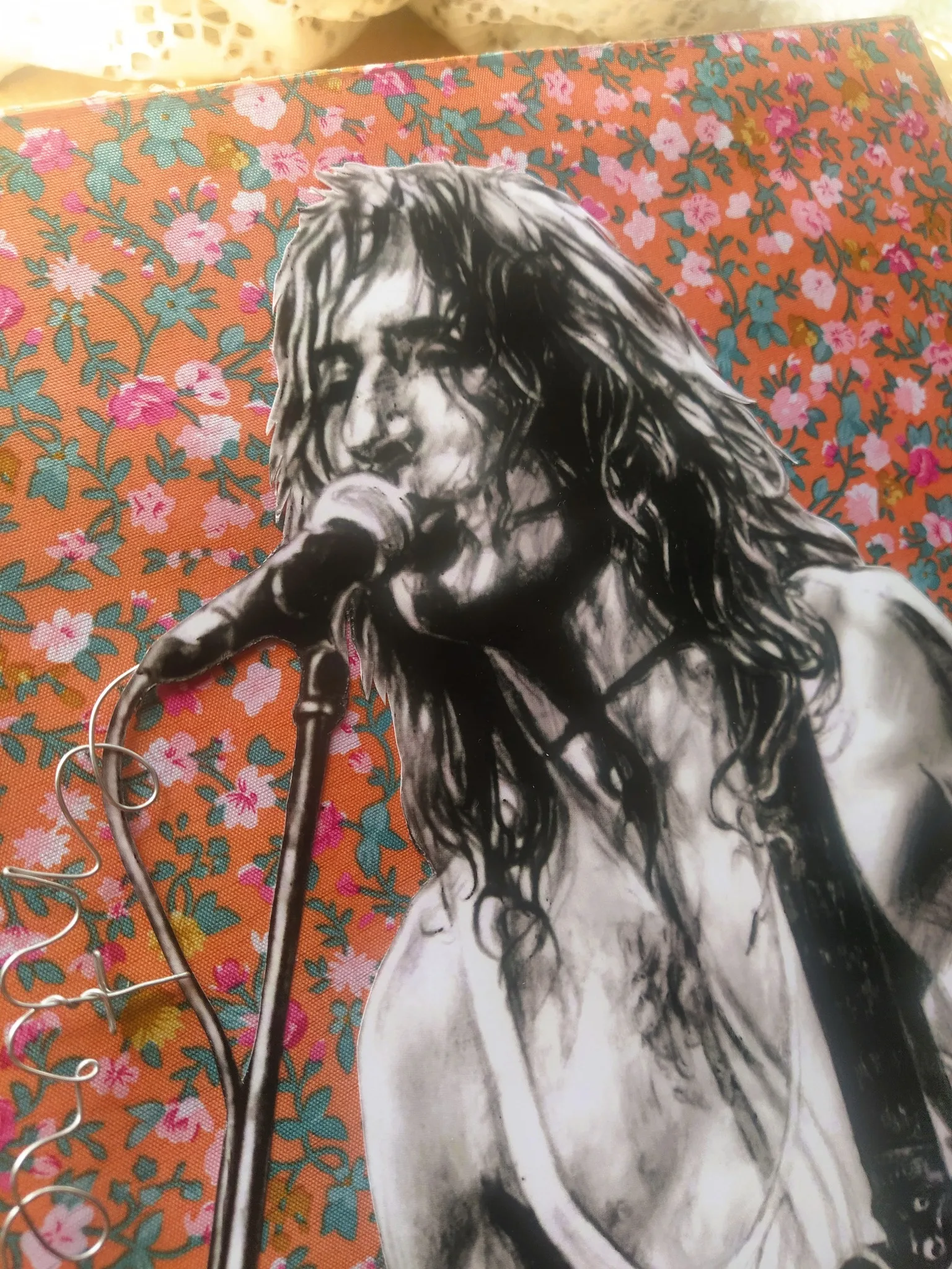
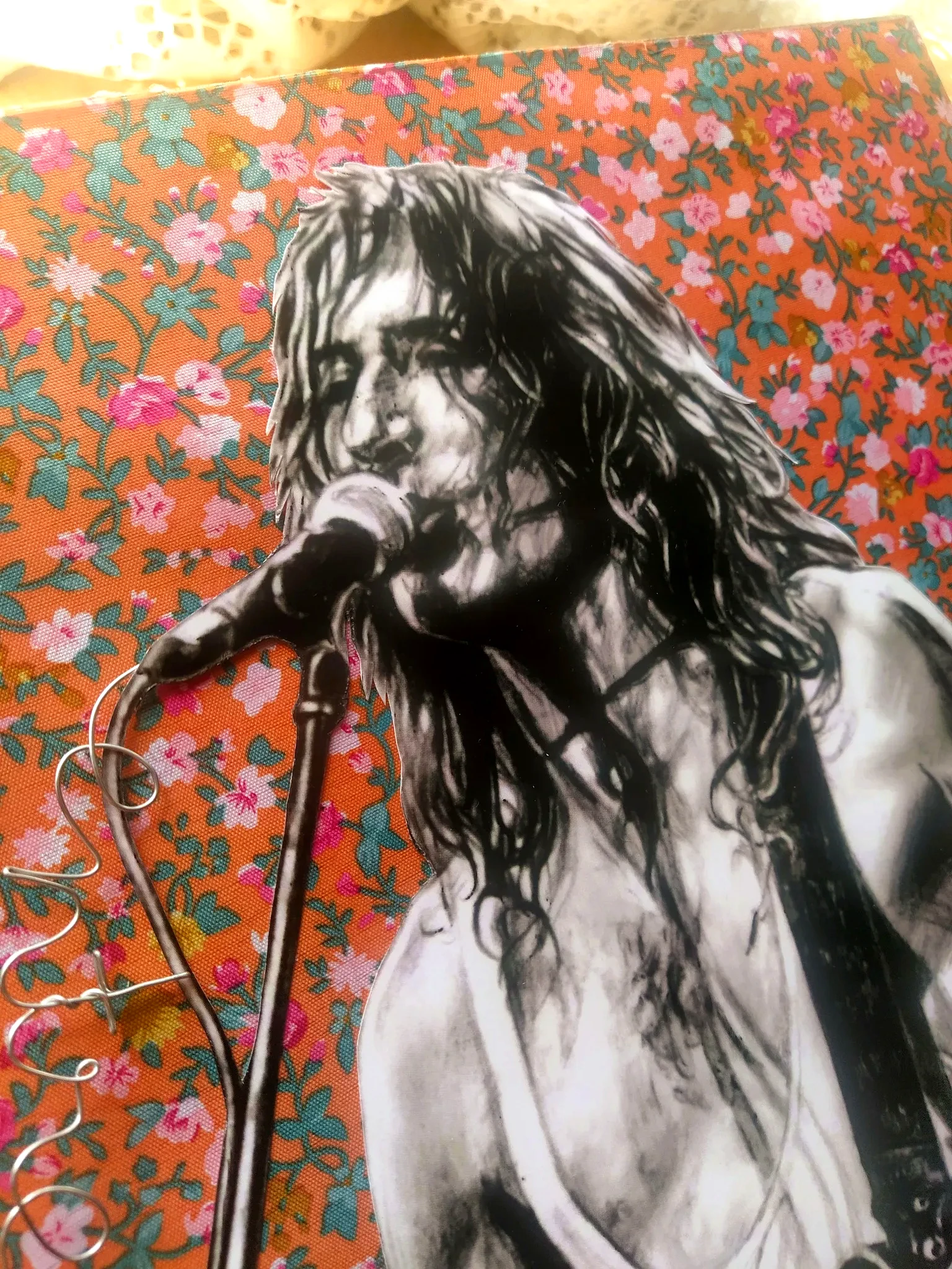
feat(blog): implement Headless WP architecture with ISR and Open Graph sync

diff --git a/src/app/blog/[slug]/page.tsx b/src/app/blog/[slug]/page.tsx
@@ -1,4 +1,4 @@
-import { BLOG_POSTS } from '@/lib/blogData';
+import { getBlogPosts } from '@/lib/blogData';
 import { notFound } from 'next/navigation';
 import Link from 'next/link';
 import { Metadata } from 'next';
@@ -6,14 +6,16 @@ import Footer from '@/components/Footer';
 import ReadingProgress from '@/components/ReadingProgress';
 
 export async function generateStaticParams() {
-  return BLOG_POSTS.map((post) => ({
+  const posts = await getBlogPosts();
+  return posts.map((post) => ({
     slug: post.slug,
   }));
 }
 
 export async function generateMetadata({ params }: { params: Promise<{ slug: string }> }): Promise<Metadata> {
   const { slug } = await params;
-  const post = BLOG_POSTS.find((p) => p.slug === slug);
+  const posts = await getBlogPosts();
+  const post = posts.find((p) => p.slug === slug);
 
   if (!post) {
     return { title: 'Post no encontrado' };
@@ -56,15 +58,16 @@ export async function generateMetadata({ params }: { params: Promise<{ slug: str
 
 export default async function BlogPostPage({ params }: { params: Promise<{ slug: string }> }) {
   const { slug } = await params;
-  const postIndex = BLOG_POSTS.findIndex((p) => p.slug === slug);
-  const post = BLOG_POSTS[postIndex];
+  const posts = await getBlogPosts();
+  const postIndex = posts.findIndex((p) => p.slug === slug);
+  const post = posts[postIndex];
 
   if (!post) {
     notFound();
   }
 
-  const prevPost = postIndex > 0 ? BLOG_POSTS[postIndex - 1] : null;
-  const nextPost = postIndex < BLOG_POSTS.length - 1 ? BLOG_POSTS[postIndex + 1] : null;
+  const prevPost = postIndex > 0 ? posts[postIndex - 1] : null;
+  const nextPost = postIndex < posts.length - 1 ? posts[postIndex + 1] : null;
 
   return (
     <div className="min-h-screen bg-[#050505] text-[#EAEAEA] font-sans selection:bg-[#2B3BE5] selection:text-white overflow-hidden relative">
@@ -128,9 +131,10 @@ export default async function BlogPostPage({ params }: { params: Promise<{ slug:
             <p className="text-xl md:text-2xl text-white/90 font-serif leading-relaxed mb-12 pl-6 border-l-2 border-[#2B3BE5]">
               {post.excerpt}
             </p>
-            <div className="space-y-8 text-lg font-sans text-white/60">
-              <p>{post.content}</p>
-            </div>
+            <div 
+              className="space-y-8 text-lg font-sans text-white/60 wp-content-renderer"
+              dangerouslySetInnerHTML={{ __html: post.content }}
+            />
           </div>
         </article>
 

diff --git a/optimize-assets.js b/optimize-assets.js
@@ -1,0 +1,37 @@
+const fs = require('fs');
+const path = require('path');
+const sharp = require('sharp');
+
+const dir = path.join(__dirname, 'public/assets');
+
+async function optimize() {
+  const files = fs.readdirSync(dir).filter(f => f.endsWith('.webp'));
+  let totalSaved = 0;
+  
+  for (const file of files) {
+    const filePath = path.join(dir, file);
+    const tmpPath = filePath + '.tmp.webp';
+    const originalSize = fs.statSync(filePath).size;
+    
+    // Only process files > 100KB to avoid degrading small icons
+    if (originalSize > 100 * 1024) {
+      await sharp(filePath)
+        .webp({ quality: 75, effort: 6, smartSubsample: true })
+        .toFile(tmpPath);
+        
+      const newSize = fs.statSync(tmpPath).size;
+      
+      if (newSize < originalSize) {
+        fs.renameSync(tmpPath, filePath);
+        totalSaved += (originalSize - newSize);
+        console.log(`Optimized ${file}: ${(originalSize/1024).toFixed(1)}KB -> ${(newSize/1024).toFixed(1)}KB`);
+      } else {
+        fs.unlinkSync(tmpPath);
+        console.log(`Skipped ${file}: optimization would not reduce size`);
+      }
+    }
+  }
+  console.log(`\nTotal saved: ${(totalSaved / 1024 / 1024).toFixed(2)} MB`);
+}
+
+optimize().catch(console.error);

diff --git a/src/app/blog/BlogClient.tsx b/src/app/blog/BlogClient.tsx
@@ -1,15 +1,13 @@
 'use client';
 
-import { useState, useEffect, useRef } from 'react';
-import Link from 'next/link';
-import useLenis from '@/hooks/useLenis';
 import HeroFluid from '@/components/HeroFluid';
 import ScrollReveal from '@/components/ScrollReveal';
 import Footer from '@/components/Footer';
+import { BlogPost } from '@/lib/blogData';
 
-import { BLOG_POSTS } from '@/lib/blogData';
+interface BlogClientProps {
 
-export default function BlogPage() {
+export default function BlogClient({ initialPosts }: BlogClientProps) {
   const [selectedCategory, setSelectedCategory] = useState<string>('Todos');
   const [mousePos, setMousePos] = useState({ x: 0, y: 0 });
 
@@ -27,8 +25,8 @@ export default function BlogPage() {
   const categories = ['Todos', 'Exposiciones', 'Talleres', 'Encuentros'];
 
   const filteredPosts = selectedCategory === 'Todos'
-    ? BLOG_POSTS
-    : BLOG_POSTS.filter(post => post.category === selectedCategory);
+    ? initialPosts
+    : initialPosts.filter(post => post.category === selectedCategory);
 
   return (
     <div className="min-h-screen bg-[#050505] text-[#EAEAEA] font-sans selection:bg-[#2B3BE5] selection:text-white overflow-hidden relative">

diff --git a/src/components/AlcoveSystem.tsx b/src/components/AlcoveSystem.tsx
@@ -36,7 +36,7 @@ const alcoveData: Record<AlcoveId, { universeNum: string; title: string; descrip
     description: 'Material recuperado directamente de derribos de tejados tradicionales en Bilbao. Sometidas a cortes geográficos, sellado con resina epoxi de brillo espejo y rematadas con bordes rotos, las pizarras representan el concepto de refugio, hogar y dureza ancestral.',
     material: 'Pizarra Vasco-Lítica',
     friction: 'Corte Rústico Manual',
-    image: '601340023_1552126202933462_7815927344957967258_n.webp',
+    image: 'espejo-alma-piensa.webp',
   },
   poliester: {
     universeNum: 'III',
@@ -52,7 +52,7 @@ const alcoveData: Record<AlcoveId, { universeNum: string; title: string; descrip
     description: 'Nacido por un error en pandemia mezclando cola blanca barata y acrílico. La costra del lienzo se resquebraja al secarse. En lugar de descartarlo, la artista raspa la herida y la rellena con barnices de oro, transformando la falla física en una veta de luz.',
     material: 'Cola, Acrílico & Oro',
     friction: 'Fractura Termodinámica',
-    image: 'lagrimas-de-oro-DikHc-Tk.webp',
+    image: 'cantinflas-kintsugi.webp',
   },
   mica: {
     universeNum: 'V',

diff --git a/src/app/globals.css b/src/app/globals.css
@@ -32,6 +32,51 @@ body {
   background-image: radial-gradient(circle at 50% 0%, rgba(43, 59, 229, 0.05) 0%, transparent 70%);
 }
 
+@layer utilities {
+  .chromatic-text {
+    background-image: linear-gradient(
+      90deg,
+      rgba(255, 0, 0, 0.8) 0%,
+      rgba(0, 255, 0, 0.8) 50%,
+      rgba(0, 0, 255, 0.8) 100%
+    );
+    background-clip: text;
+    color: transparent;
+    mix-blend-mode: screen;
+    animation: chromatic 8s linear infinite;
+  }
+
+  .wp-content-renderer img {
+    max-width: 100%;
+    height: auto;
+    border-radius: 4px;
+    margin: 2rem 0;
+    filter: grayscale(100%);
+    transition: filter 0.5s ease;
+  }
+  
+  .wp-content-renderer img:hover {
+    filter: grayscale(0%);
+  }
+
+  .wp-content-renderer a {
+    color: #2B3BE5;
+    text-decoration: underline;
+    text-decoration-color: rgba(43, 59, 229, 0.3);
+    text-underline-offset: 4px;
+    transition: all 0.3s ease;
+  }
+
+  .wp-content-renderer a:hover {
+    color: #fff;
+    text-decoration-color: #2B3BE5;
+  }
+
+  .wp-content-renderer p {
+    margin-bottom: 1.5rem;
+  }
+}
+
 body::after {
   content: "";
   position: fixed;

diff --git a/src/app/api/wp/route.ts b/src/app/api/wp/route.ts
@@ -28,7 +28,7 @@ export async function GET() {
       const pubDate = pubDateRaw ? new Date(pubDateRaw).toLocaleDateString('es-ES', { year: 'numeric', month: 'long', day: 'numeric' }) : '';
       
       const imgMatch = itemXml.match(/media:content[^>]+url="([^"]+)"/);
-      let image = imgMatch ? imgMatch[1] : '/assets/amy-new.webp';
+      const image = imgMatch ? imgMatch[1] : '/assets/amy-new.webp';
       
       items.push({ title: title.trim(), link: link.trim(), pubDate, image });
     }

diff --git a/src/components/InteractiveSlateCanvas.tsx b/src/components/InteractiveSlateCanvas.tsx
@@ -53,8 +53,8 @@ export default function InteractiveSlateCanvas({ disabled = false }: Interactive
     canvas.width = width;
     canvas.height = height;
 
-    let particles: Particle[] = [];
-    let cracks: CrackSegment[] = [];
+    const particles: Particle[] = [];
+    const cracks: CrackSegment[] = [];
     let rafId: number;
 
     const handleResize = () => {

diff --git a/src/app/blog/page.tsx b/src/app/blog/page.tsx
@@ -1,0 +1,9 @@
+import { getBlogPosts } from '@/lib/blogData';
+import BlogClient from './BlogClient';
+
+export const revalidate = 3600; // ISR
+
+export default async function BlogPage() {
+  const posts = await getBlogPosts();
+  return <BlogClient initialPosts={posts} />;
+}

diff --git a/src/components/SplatBenchmarkCanvas.tsx b/src/components/SplatBenchmarkCanvas.tsx
@@ -1,4 +1,4 @@
-/* eslint-disable react-hooks/set-state-in-effect */
+ 
 /* eslint-disable @typescript-eslint/no-explicit-any */
 'use client';
 

diff --git a/scripts/enhance_assets.py b/scripts/enhance_assets.py
@@ -1,0 +1,59 @@
+import os
+import glob
+from PIL import Image, ImageEnhance
+import shutil
+
+# Rutas
+ASSETS_DIR = "/Users/borjafernandezangulo/10_PROJECTS/naroagutierrezgil.com/public/assets"
+BRAIN_DIR = "/Users/borjafernandezangulo/.gemini/antigravity/brain/258d0c59-bf04-4f17-8119-fd83895a51a0"
+
+def process_image(filepath):
+    try:
+        img = Image.open(filepath)
+        # Convert to RGB if it has alpha and we want to do heavy processing, but webp supports alpha.
+        if img.mode not in ('RGB', 'RGBA'):
+            img = img.convert('RGBA')
+            
+        # Enhancements for maximum exergy (hyperrealistic pop art look)
+        enhancer_contrast = ImageEnhance.Contrast(img)
+        img = enhancer_contrast.enhance(1.15)
+        
+        enhancer_sharpness = ImageEnhance.Sharpness(img)
+        img = enhancer_sharpness.enhance(1.3)
+        
+        enhancer_color = ImageEnhance.Color(img)
+        img = enhancer_color.enhance(1.1)
+
+        # Output path (force webp)
+        base = os.path.splitext(filepath)[0]
+        out_path = base + ".webp"
+        
+        # Save optimized WebP
+        img.save(out_path, "WEBP", quality=90, method=6)
+        print(f"Enhanced and saved: {os.path.basename(out_path)}")
+        
+        # Remove original if it was not webp or if we overwrote it, we don't need the jpg anymore to save space.
+        if filepath != out_path and os.path.exists(filepath):
+            os.remove(filepath)
+            
+    except Exception as e:
+        print(f"Error processing {filepath}: {e}")
+
+def main():
+    # 1. Copy generated artworks
+    generated_images = glob.glob(os.path.join(BRAIN_DIR, "*.jpg"))
+    for gen_img in generated_images:
+        dest = os.path.join(ASSETS_DIR, os.path.basename(gen_img))
+        shutil.copy2(gen_img, dest)
+        print(f"Copied generated image: {os.path.basename(gen_img)}")
+        
+    # 2. Process all images
+    all_images = glob.glob(os.path.join(ASSETS_DIR, "*.*"))
+    for img_path in all_images:
+        ext = os.path.splitext(img_path)[1].lower()
+        if ext in ['.jpg', '.jpeg', '.png', '.webp']:
+            # don't process SVG
+            process_image(img_path)
+
+if __name__ == "__main__":
+    main()
